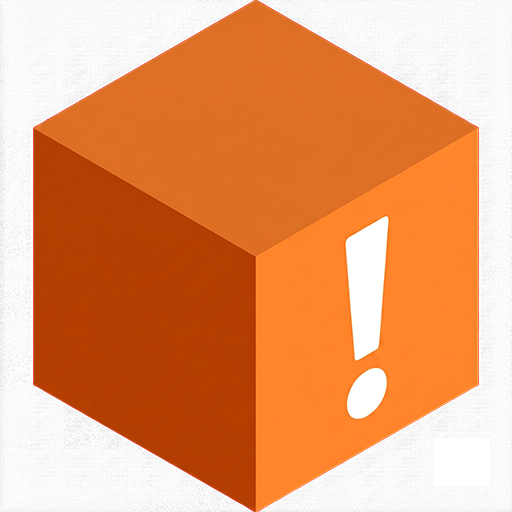
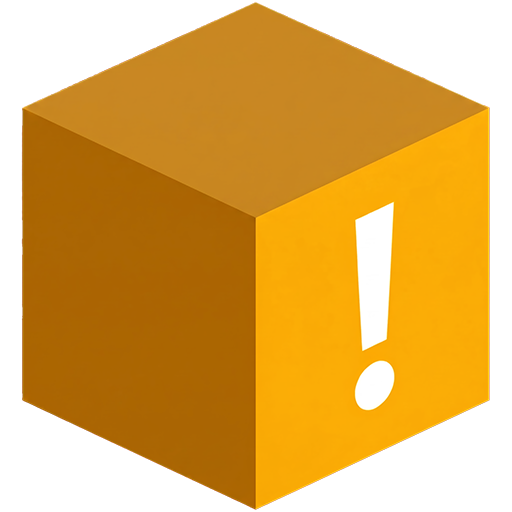
feat: add /infuse/ WebDAV endpoint, /logs/ viewer with ring buffer, closes #12 #13

diff --git a/internal/server/landing.html b/internal/server/landing.html
@@ -109,6 +109,8 @@
     <tr><td>File count</td><td>{{.FileCount}}</td></tr>
     <tr class="link-row"><td>HTTP browser</td><td><a href="{{.HTTPURL}}">{{.HTTPURL}}</a></td></tr>
     <tr class="link-row"><td>WebDAV root</td><td><a href="{{.WebDAVURL}}">{{.WebDAVURL}}</a></td></tr>
+    <tr class="link-row"><td>Infuse</td><td><a href="{{.InfuseURL}}">{{.InfuseURL}}</a></td></tr>
+    <tr class="link-row"><td>Logs</td><td><a href="{{.LogsURL}}">{{.LogsURL}}</a></td></tr>
     <tr class="link-row"><td>Source</td><td><a href="https://REDACTED/ben/warpbox" target="_blank">ben/warpbox</a></td></tr>
   </table>
 

diff --git a/internal/server/logs.go b/internal/server/logs.go
@@ -1,0 +1,196 @@
+// Logs endpoint — serves recent log output at /logs/.
+//
+// Uses an in-memory ring buffer that captures slog output as it's written.
+// The buffer is wrapped around the real slog handler so all logging
+// infrastructure works as normal.
+package server
+
+import (
+	"context"
+	"fmt"
+	"html"
+	"log/slog"
+	"net/http"
+	"sync"
+)
+
+// ringBufferCapacity is the number of log lines kept in memory.
+const ringBufferCapacity = 1000
+
+// ringBufferHandler is an slog.Handler that writes to an in-memory ring
+// buffer in addition to delegating to the wrapped handler.
+type ringBufferHandler struct {
+	inner slog.Handler
+	mu    sync.Mutex
+	buf   [ringBufferCapacity]string
+	pos   int
+	full  bool
+}
+
+// NewRingBufferHandler wraps an slog.Handler with a ring buffer.
+func NewRingBufferHandler(inner slog.Handler) *ringBufferHandler {
+	return &ringBufferHandler{inner: inner}
+}
+
+// Enabled reports whether the handler is enabled for the given level.
+func (h *ringBufferHandler) Enabled(_ context.Context, level slog.Level) bool {
+	return h.inner.Enabled(context.Background(), level)
+}
+
+// Handle stores the formatted log line in the ring buffer, then delegates
+// to the wrapped handler.
+func (h *ringBufferHandler) Handle(_ context.Context, r slog.Record) error {
+	line := formatRecord(&r)
+	h.mu.Lock()
+	h.buf[h.pos] = line
+	h.pos = (h.pos + 1) % ringBufferCapacity
+	if h.pos == 0 {
+		h.full = true
+	}
+	h.mu.Unlock()
+	return h.inner.Handle(context.Background(), r)
+}
+
+// WithAttrs returns a new handler with the given attributes.
+func (h *ringBufferHandler) WithAttrs(attrs []slog.Attr) slog.Handler {
+	return &ringBufferHandler{
+		inner: h.inner.WithAttrs(attrs),
+		pos:   h.pos,
+		full:  h.full,
+		buf:   h.buf,
+	}
+}
+
+// WithGroup returns a new handler with the given group.
+func (h *ringBufferHandler) WithGroup(name string) slog.Handler {
+	return &ringBufferHandler{
+		inner: h.inner.WithGroup(name),
+		pos:   h.pos,
+		full:  h.full,
+		buf:   h.buf,
+	}
+}
+
+// Lines returns the most recent N log lines in reverse chronological order.
+func (h *ringBufferHandler) Lines(n int) []string {
+	h.mu.Lock()
+	defer h.mu.Unlock()
+
+	if n <= 0 || n > ringBufferCapacity {
+		n = ringBufferCapacity
+	}
+
+	count := h.pos
+	if h.full {
+		count = ringBufferCapacity
+	}
+	if n > count {
+		n = count
+	}
+
+	lines := make([]string, n)
+	for i := 0; i < n; i++ {
+		idx := (h.pos - 1 - i + ringBufferCapacity) % ringBufferCapacity
+		if !h.full && idx < 0 {
+			break
+		}
+		lines[i] = h.buf[idx]
+	}
+	return lines
+}
+
+// formatRecord formats a slog.Record as a single-line string similar to
+// the text handler.
+func formatRecord(r *slog.Record) string {
+	timeStr := r.Time.Format("2006-01-02T15:04:05.000Z07:00")
+	levelStr := r.Level.String()
+	msg := r.Message
+
+	line := fmt.Sprintf("%s %-5s %s", timeStr, levelStr, msg)
+
+	r.Attrs(func(a slog.Attr) bool {
+		if a.Value.Kind() == slog.KindGroup {
+			return true
+		}
+		line += fmt.Sprintf(" %s=%v", a.Key, a.Value.Any())
+		return true
+	})
+
+	return line
+}
+
+// globalLogBuffer stores the ring buffer reference for the server.
+var globalLogBuffer *ringBufferHandler
+
+// SetLogBuffer sets the global ring buffer reference so the /logs/
+// handler can access it.
+func SetLogBuffer(buf *ringBufferHandler) {
+	globalLogBuffer = buf
+}
+
+// handleLogs serves recent log output as HTML.
+func (s *Server) handleLogs(w http.ResponseWriter, r *http.Request) {
+	if r.URL.Path != "/logs/" && r.URL.Path != "/logs" {
+		http.NotFound(w, r)
+		return
+	}
+
+	w.Header().Set("Content-Type", "text/html; charset=utf-8")
+	w.WriteHeader(http.StatusOK)
+
+	fmt.Fprint(w, logsHTMLStart)
+	fmt.Fprint(w, "</head><body>\n")
+	fmt.Fprint(w, "<div class=\"container\">\n")
+	fmt.Fprintf(w, "<h1>warpbox <span class=\"path\">logs</span></h1>\n")
+	fmt.Fprint(w, "<p class=\"nav\"><a href=\"/\">Back to status</a></p>\n")
+	fmt.Fprint(w, "<pre class=\"log-output\">")
+
+	var lines []string
+	if globalLogBuffer != nil {
+		lines = globalLogBuffer.Lines(200)
+	}
+
+	for _, line := range lines {
+		fmt.Fprintln(w, html.EscapeString(line))
+	}
+
+	fmt.Fprint(w, "</pre>\n")
+	fmt.Fprint(w, "</div>\n")
+	fmt.Fprint(w, "</body></html>\n")
+}
+
+const logsHTMLStart = `<!DOCTYPE html>
+<html lang="en">
+<head>
+<meta charset="utf-8">
+<meta name="viewport" content="width=device-width, initial-scale=1">
+<style>
+  * { margin: 0; padding: 0; box-sizing: border-box; }
+  body {
+    font-family: -apple-system, BlinkMacSystemFont, "Segoe UI", Roboto, Helvetica, Arial, sans-serif;
+    background: #0f172a;
+    color: #e2e8f0;
+    padding: 2rem 1rem;
+  }
+  .container { max-width: 1000px; margin: 0 auto; }
+  h1 { font-size: 1.5rem; color: #38bdf8; margin-bottom: 0.5rem; }
+  h1 .path { color: #94a3b8; font-weight: 400; }
+  .nav { margin-bottom: 1rem; font-size: 0.85rem; }
+  .nav a { color: #38bdf8; text-decoration: none; }
+  .nav a:hover { text-decoration: underline; }
+  .log-output {
+    background: #1e293b;
+    color: #e2e8f0;
+    padding: 1rem;
+    border-radius: 8px;
+    font-family: "SF Mono", "Fira Code", "Consolas", monospace;
+    font-size: 0.8rem;
+    line-height: 1.5;
+    overflow-x: auto;
+    white-space: pre-wrap;
+    max-height: 80vh;
+    overflow-y: auto;
+  }
+</style>
+<title>warpbox logs</title>
+`

diff --git a/internal/server/server.go b/internal/server/server.go
@@ -9,6 +9,7 @@ import (
 	"context"
 	"log/slog"
 	"net/http"
+	"strings"
 	"time"
 
 	"github.com/ben/warpbox/internal/cache"
@@ -80,13 +81,27 @@ func (s *Server) registerRoutes() {
 	s.mux.Handle("/http/", s.versionHeader(http.HandlerFunc(s.handleHTTP)))
 	s.mux.Handle("/http", s.versionHeader(http.HandlerFunc(s.handleHTTP)))
 
+	// Infuse WebDAV endpoint (same content, different URL path).
+	s.mux.Handle("/infuse/", s.versionHeader(http.HandlerFunc(s.handleWebDAV)))
+	s.mux.Handle("/infuse", s.versionHeader(http.HandlerFunc(s.handleWebDAV)))
+
+	// Log viewer.
+	s.mux.Handle("/logs/", s.versionHeader(http.HandlerFunc(s.handleLogs)))
+	s.mux.Handle("/logs", s.versionHeader(http.HandlerFunc(s.handleLogs)))
+
 	s.mux.Handle("/", s.versionHeader(http.HandlerFunc(s.handleLanding)))
 	s.mux.HandleFunc("/warpbox.png", s.handleLogo)
 	s.mux.HandleFunc("/favicon.ico", s.handleLogo)
 }
 
 // handleWebDAV dispatches WebDAV methods to the appropriate handler.
+// If the request comes via /infuse/, rewrite the path to the configured
+// WebDAV root so the sub-handlers work without modification.
 func (s *Server) handleWebDAV(w http.ResponseWriter, r *http.Request) {
+	if strings.HasPrefix(r.URL.Path, "/infuse") {
+		r.URL.Path = strings.Replace(r.URL.Path, "/infuse", s.root, 1)
+	}
+
 	switch r.Method {
 	case http.MethodOptions:
 		s.handleOptions(w, r)

diff --git a/cmd/warpbox/main.go b/cmd/warpbox/main.go
@@ -75,7 +75,11 @@ func main() {
 	} else {
 		handler = slog.NewTextHandler(os.Stderr, opts)
 	}
-	logger := slog.New(handler)
+
+	// Wrap the handler with a ring buffer for the /logs/ endpoint.
+	bufHandler := server.NewRingBufferHandler(handler)
+	server.SetLogBuffer(bufHandler)
+	logger := slog.New(bufHandler)
 	slog.SetDefault(logger)
 
 	fmt.Print(banner)

diff --git a/internal/server/landing.go b/internal/server/landing.go
@@ -42,6 +42,8 @@ type LandingData struct {
 	FileCount            int
 	WebDAVURL            string
 	HTTPURL              string
+	InfuseURL            string
+	LogsURL              string
 	AllocMB              uint64
 	TotalAllocMB         uint64
 	SysMB                uint64
@@ -86,6 +88,8 @@ func (s *Server) handleLanding(w http.ResponseWriter, r *http.Request) {
 		FileCount:           fileCount,
 		WebDAVURL:           s.root + "/",
 		HTTPURL:             "/http/",
+		InfuseURL:           "/infuse/",
+		LogsURL:             "/logs/",
 		AllocMB:             mem.Alloc / 1024 / 1024,
 		TotalAllocMB:        mem.TotalAlloc / 1024 / 1024,
 		SysMB:               mem.Sys / 1024 / 1024,